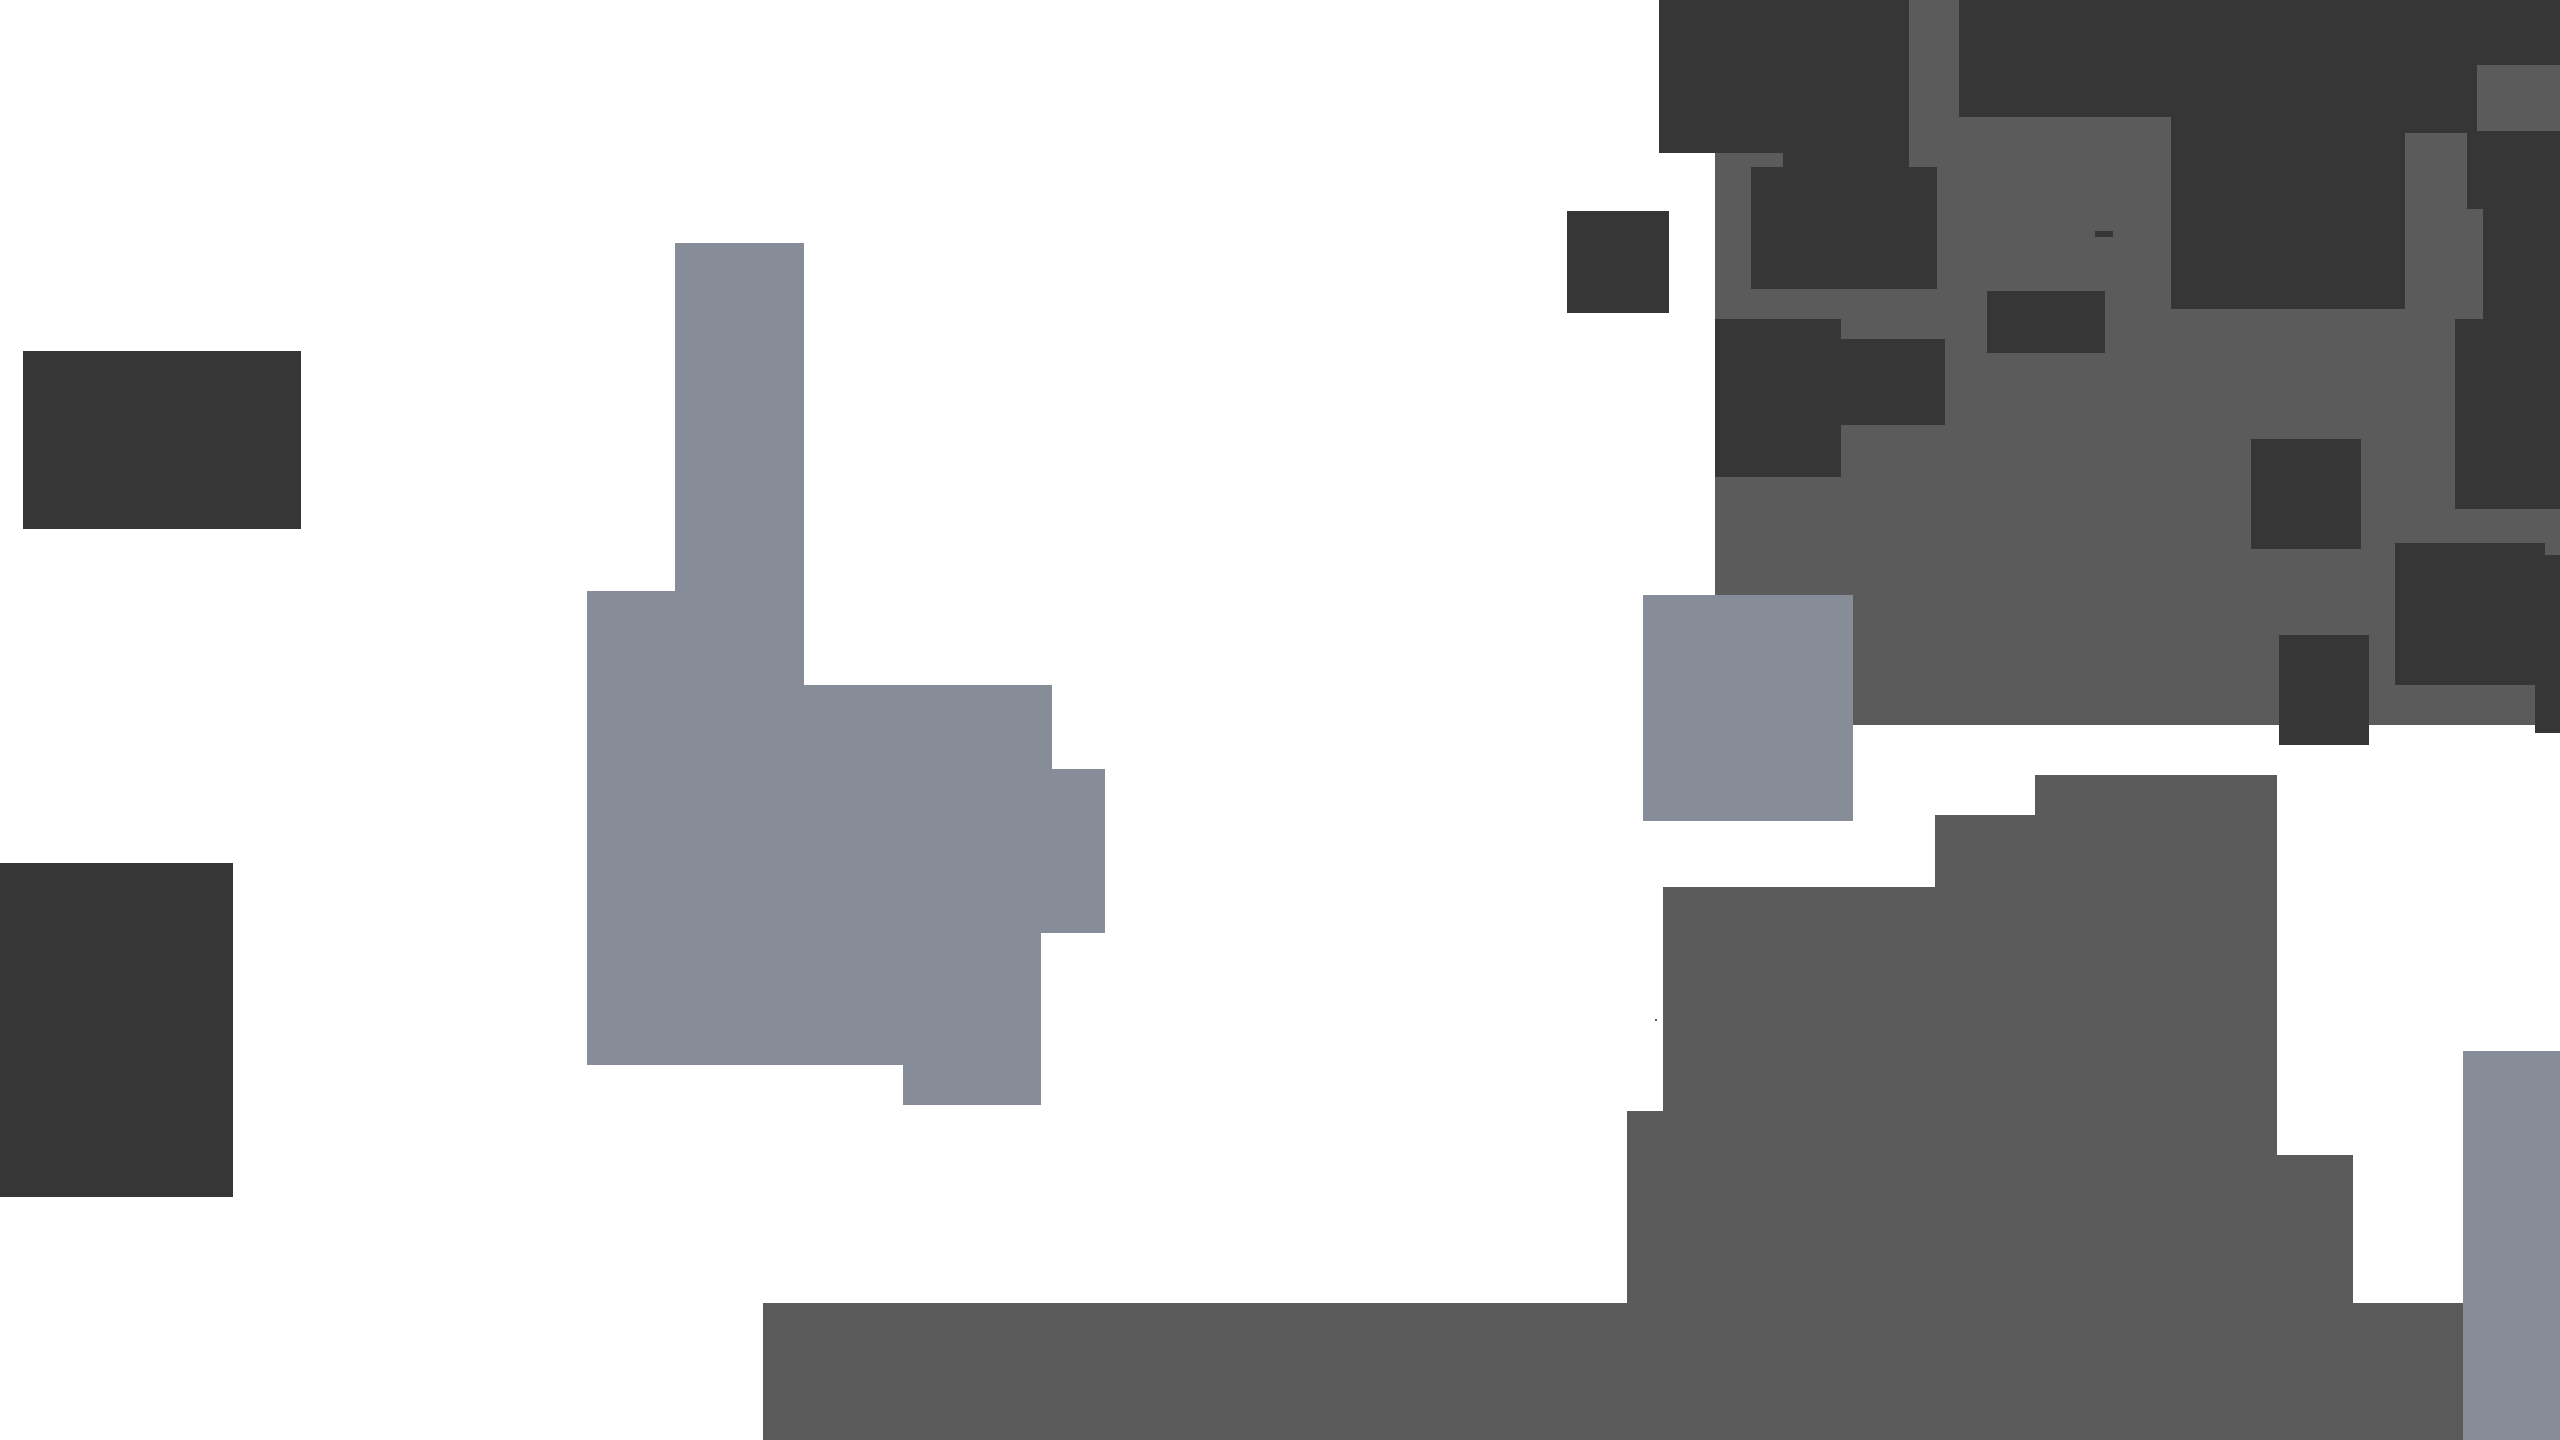
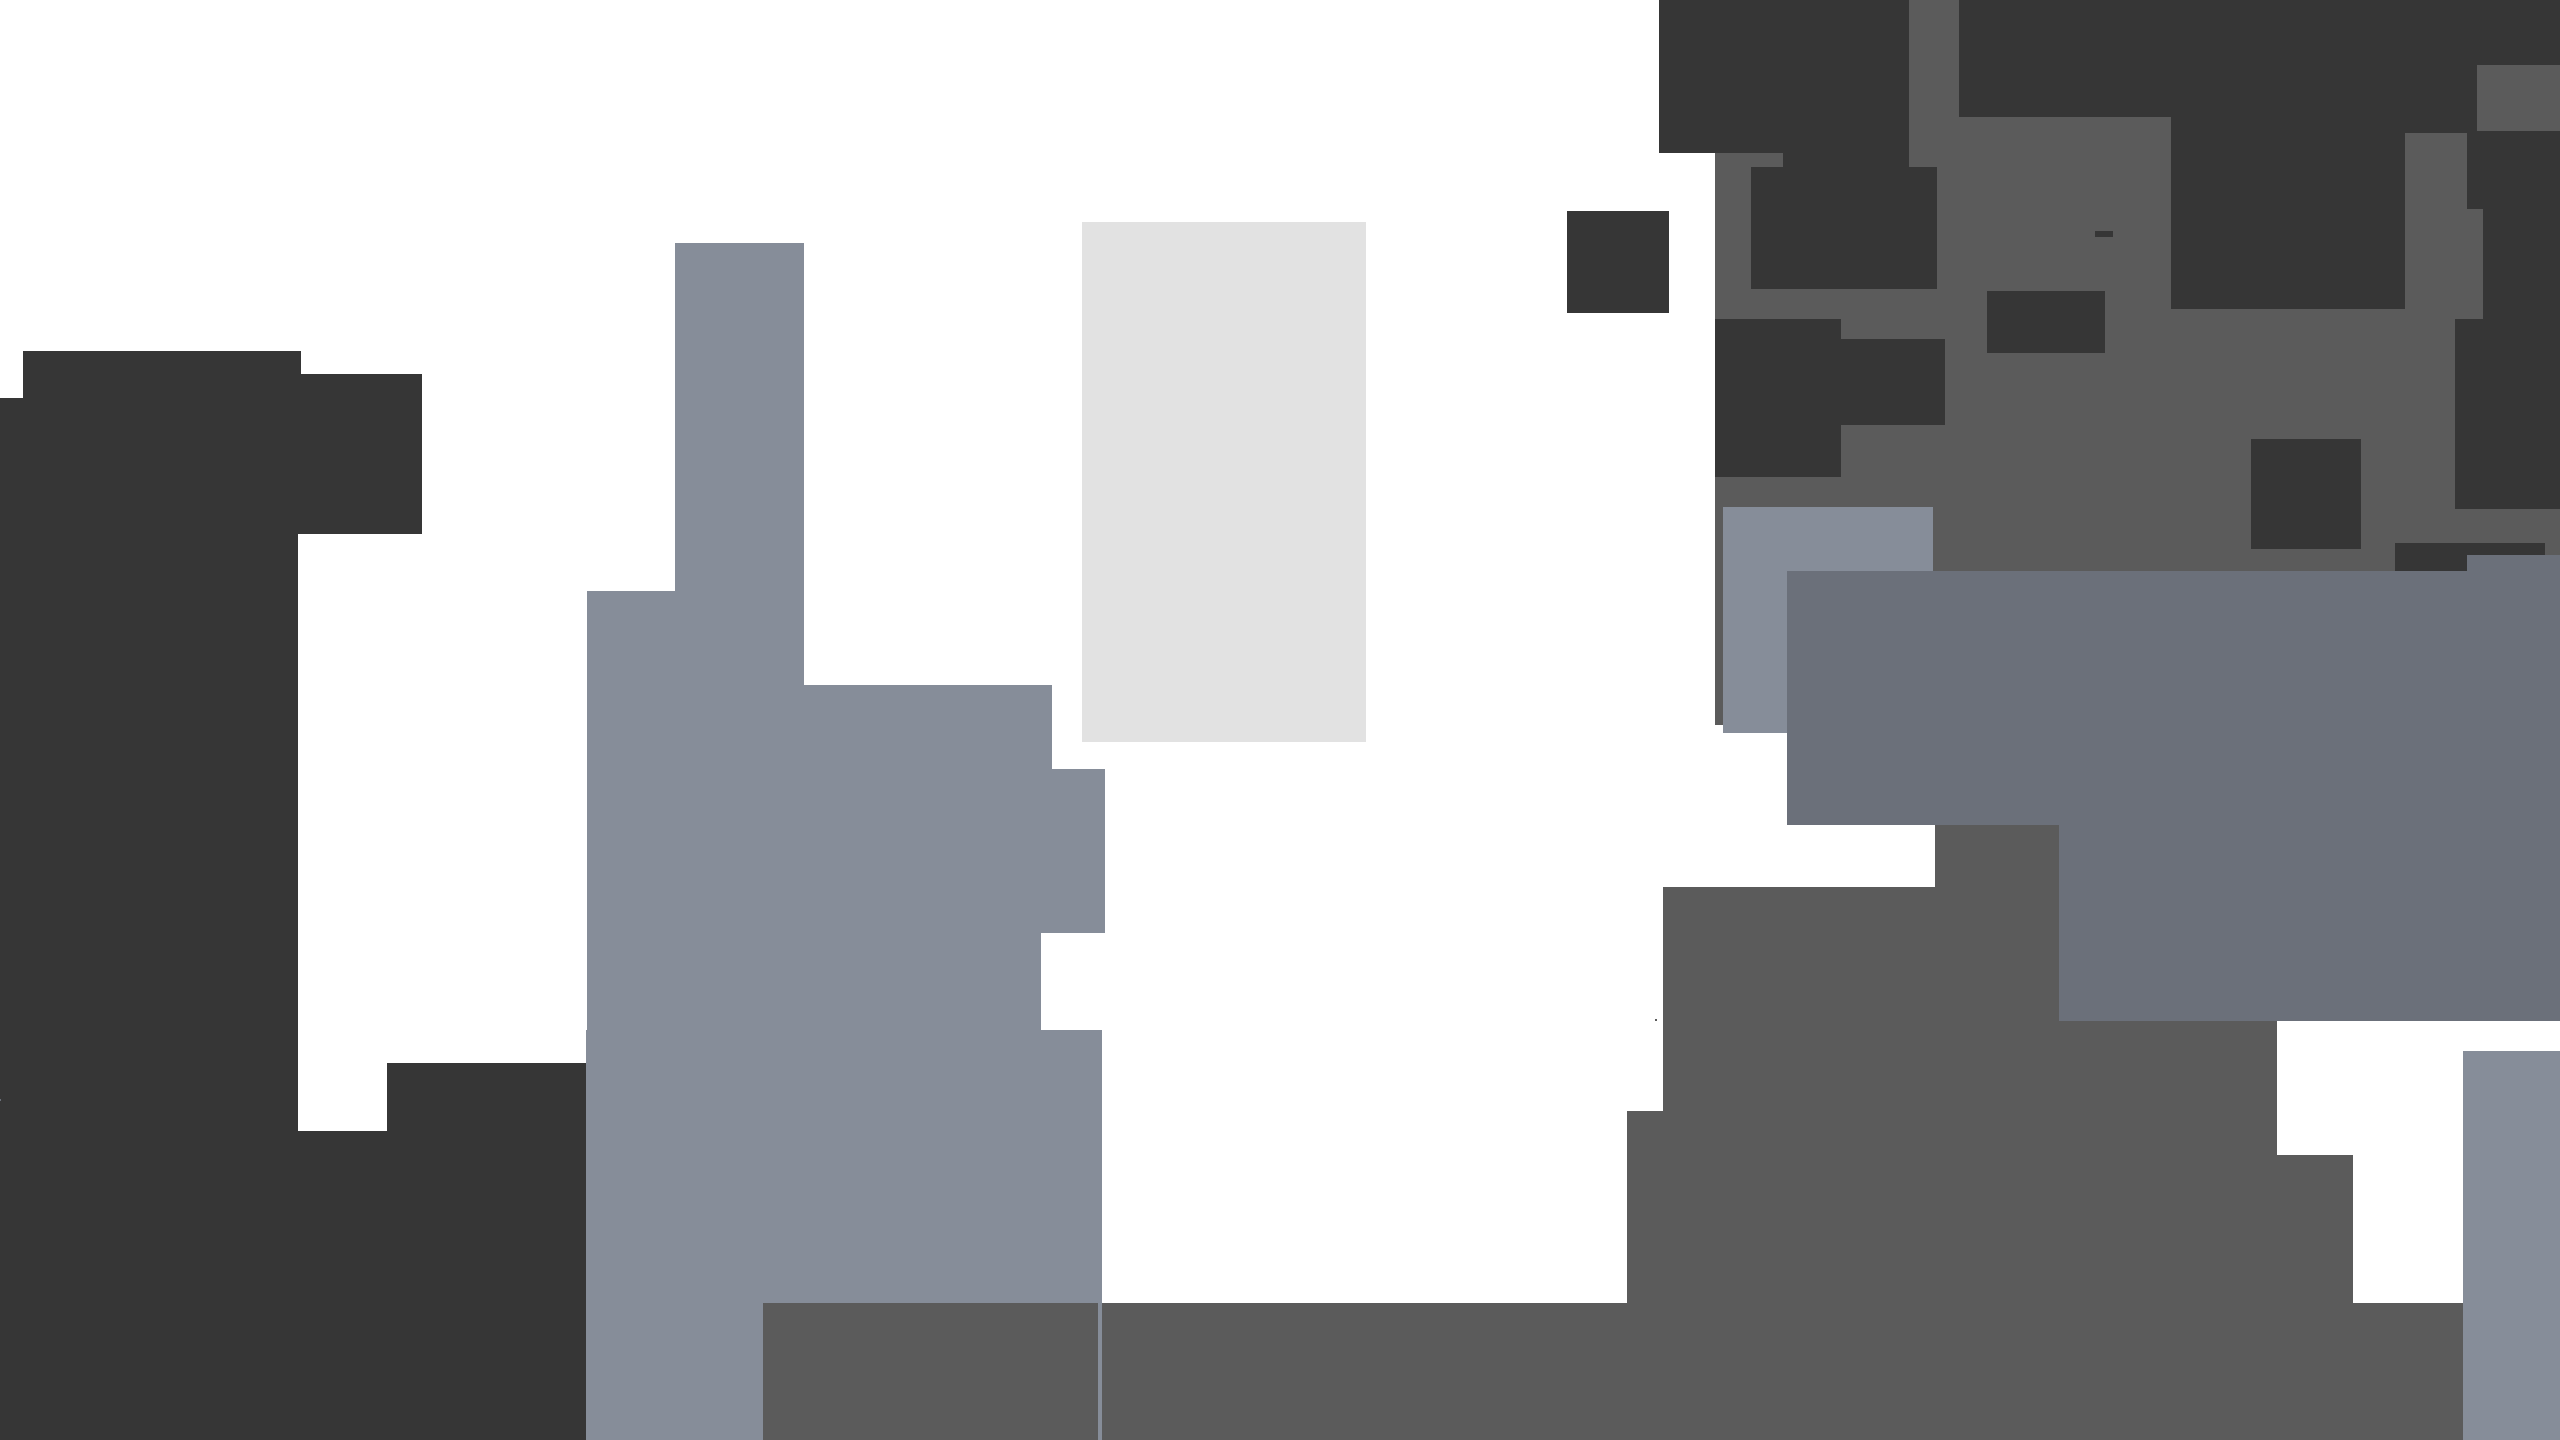
z

Changed region(s): [[0.0, 0.25, 0.4375, 1.0], [0.625, 0.3438, 1.0, 0.7188], [0.4062, 0.1562, 0.5312, 0.5312]]

diff --git a/Manzo/Manzo/Game/Mode1.cpp b/Manzo/Manzo/Game/Mode1.cpp
@@ -53,7 +53,7 @@ void Mode1::Load() {
     GetGSComponent<CS230::GameObjectManager>()->Add(ship_ptr);
 
     //// camera
-    Math::rect Boundary({ -1280,-540 }, { 1280,540 });
+    Math::rect Boundary({ -660,-540 }, { 640,540 });
     camera = new CS230::Cam();
     AddGSComponent(camera);
     camera->SetLimit(Boundary);
